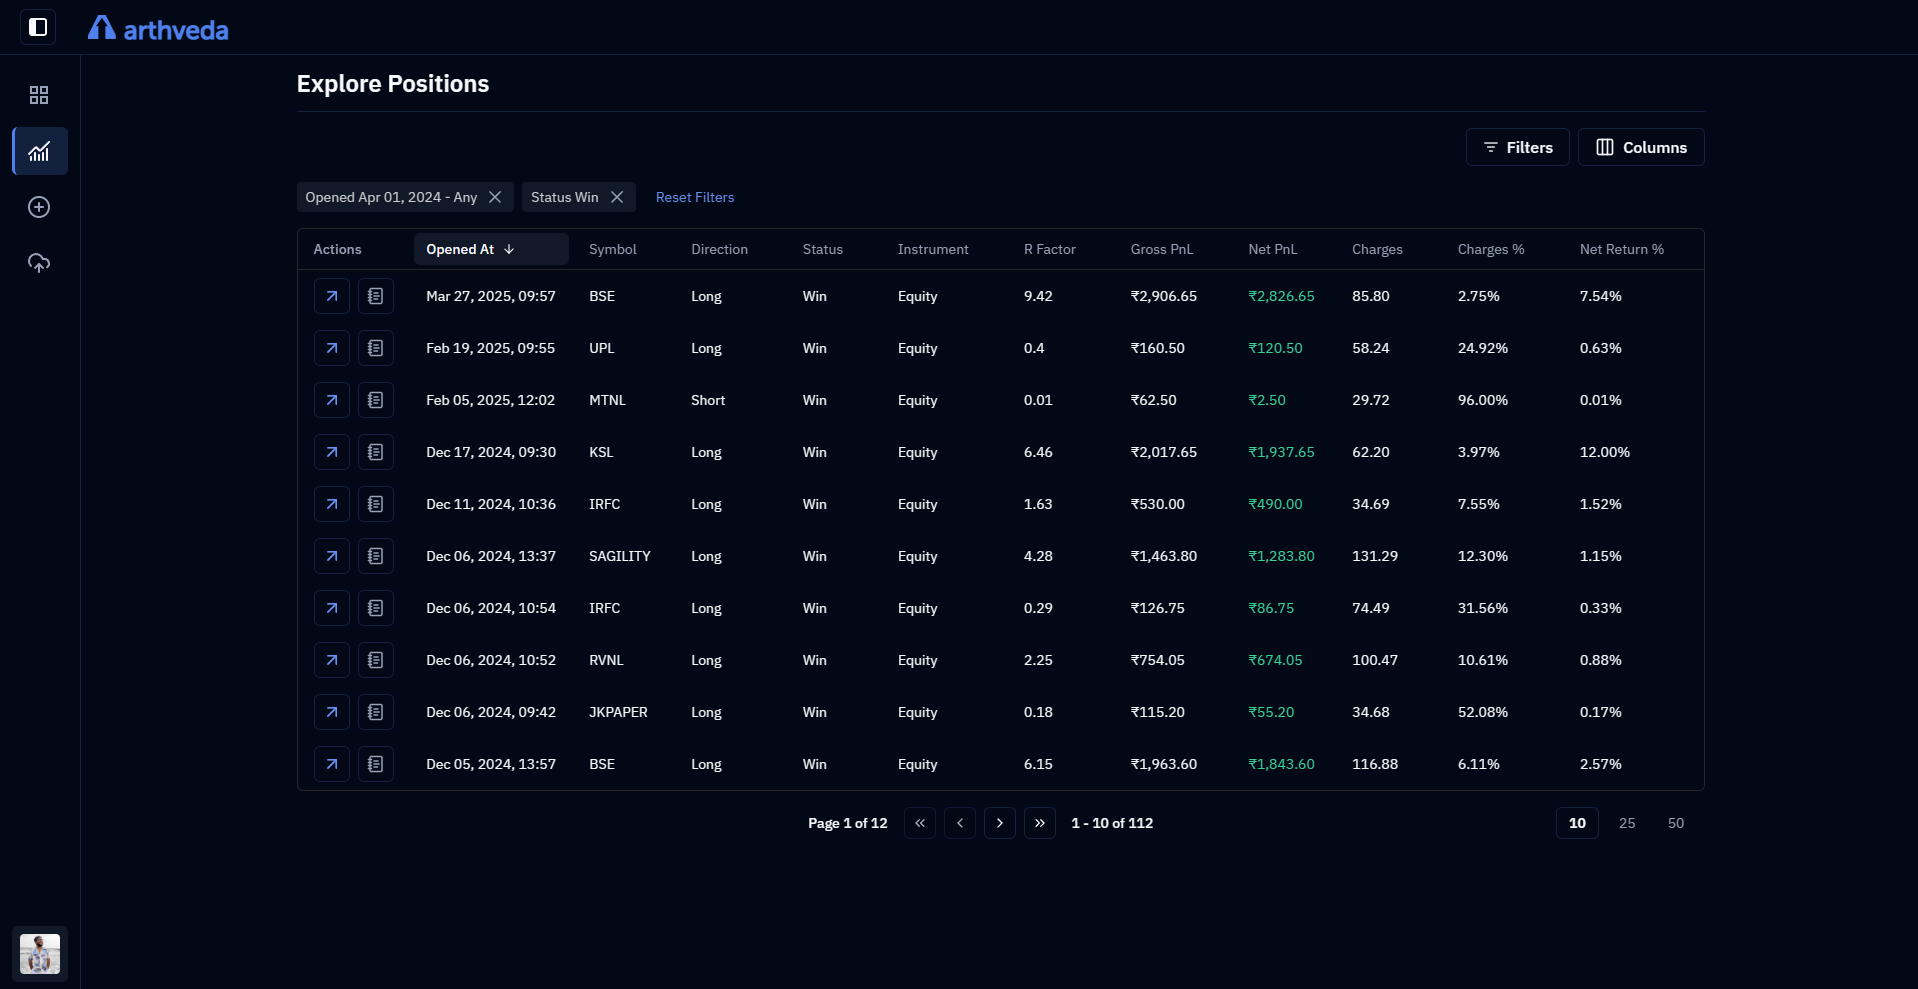
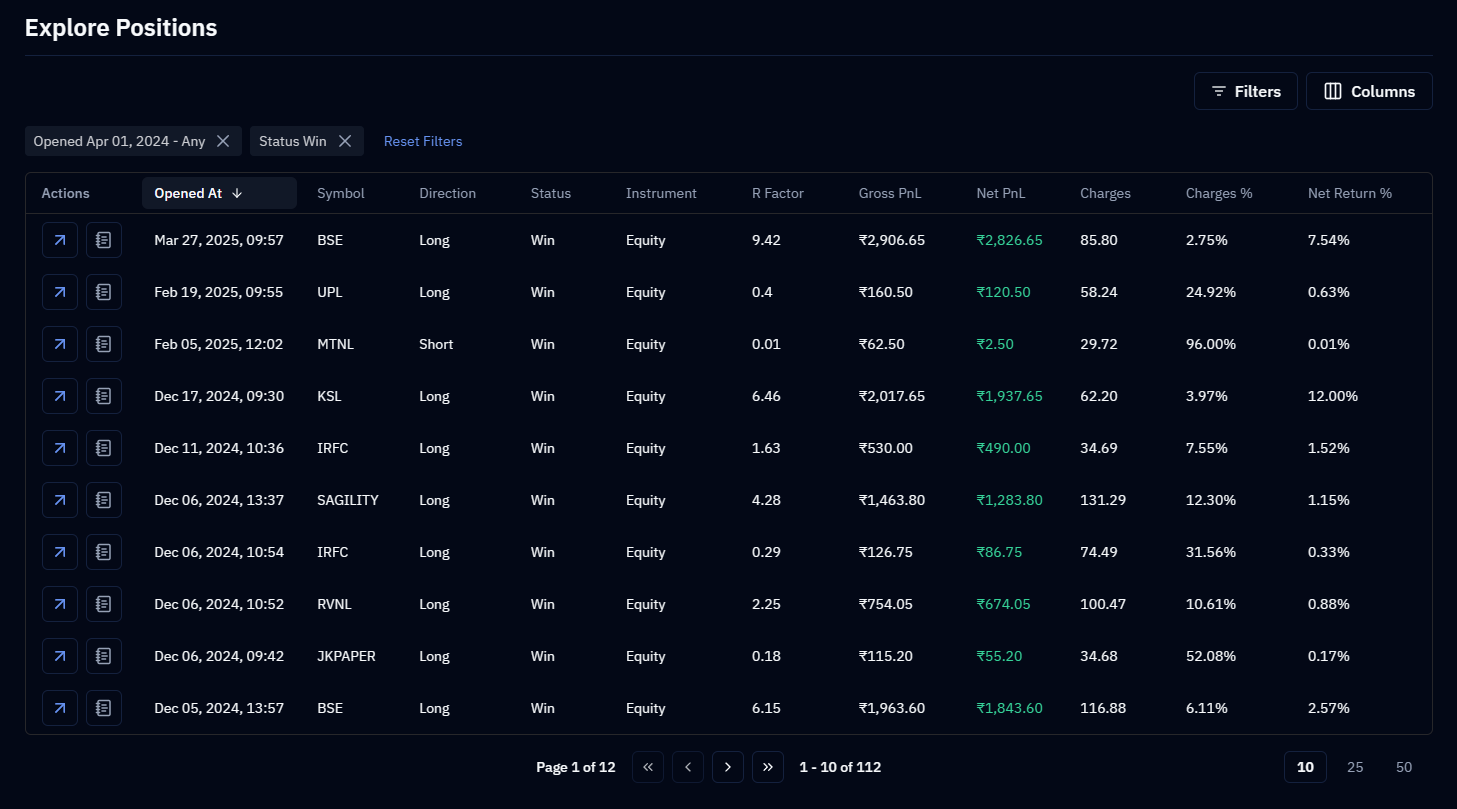
feat: add zoomed in screenshots for features section

diff --git a/components/features.tsx b/components/features.tsx
@@ -51,12 +51,12 @@ export default function Features() {
                         className="w-full lg:w-4/6"
                     >
                         <a
-                            href="/images/dashboard.png"
+                            href="/images/dashboard_zoomed.png"
                             target="_blank"
                             rel="noopener noreferrer"
                         >
                             <Image
-                                src="/images/dashboard.png"
+                                src="/images/dashboard_zoomed.png"
                                 alt="Analytics Dashboard"
                                 width={1200}
                                 height={900}
